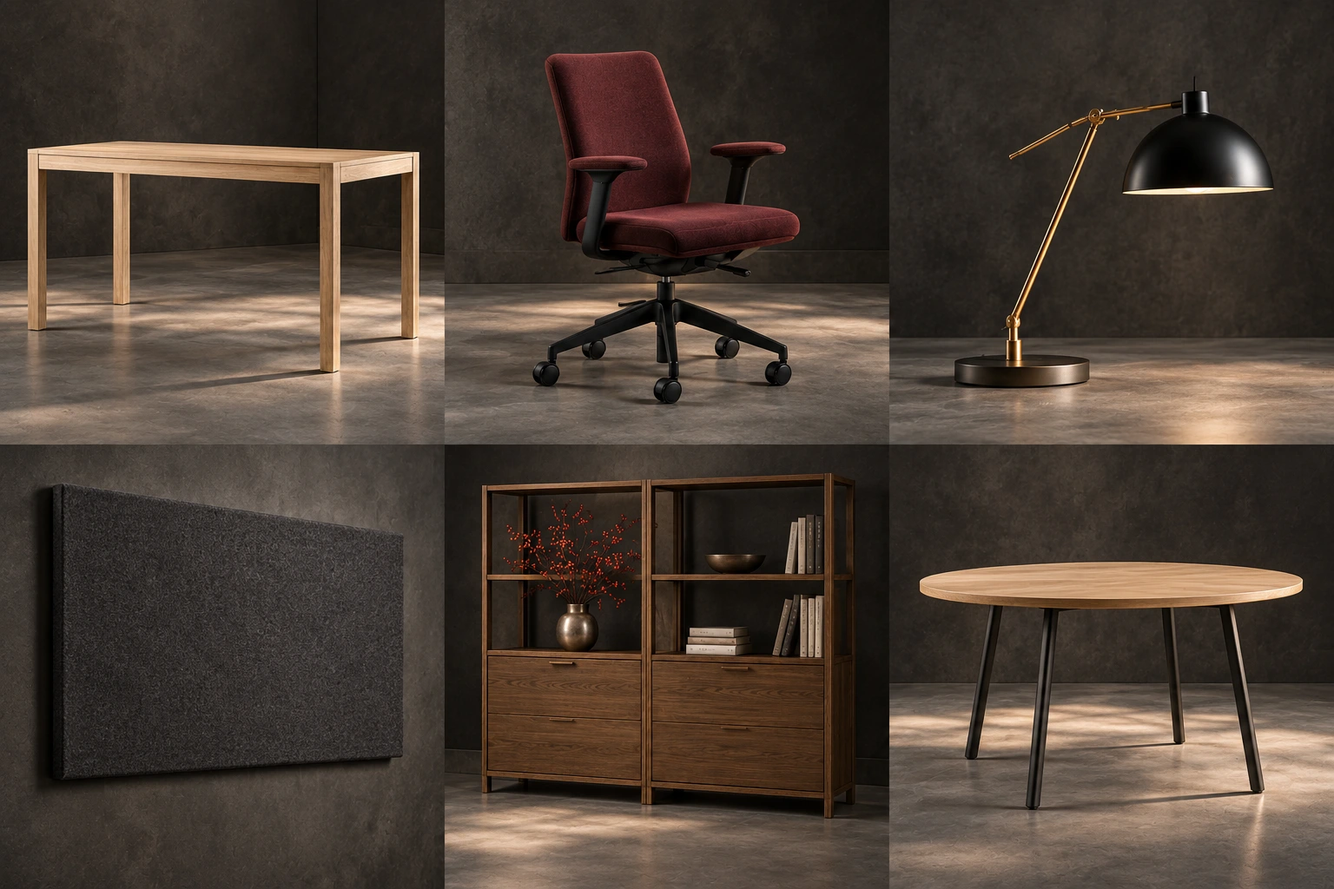
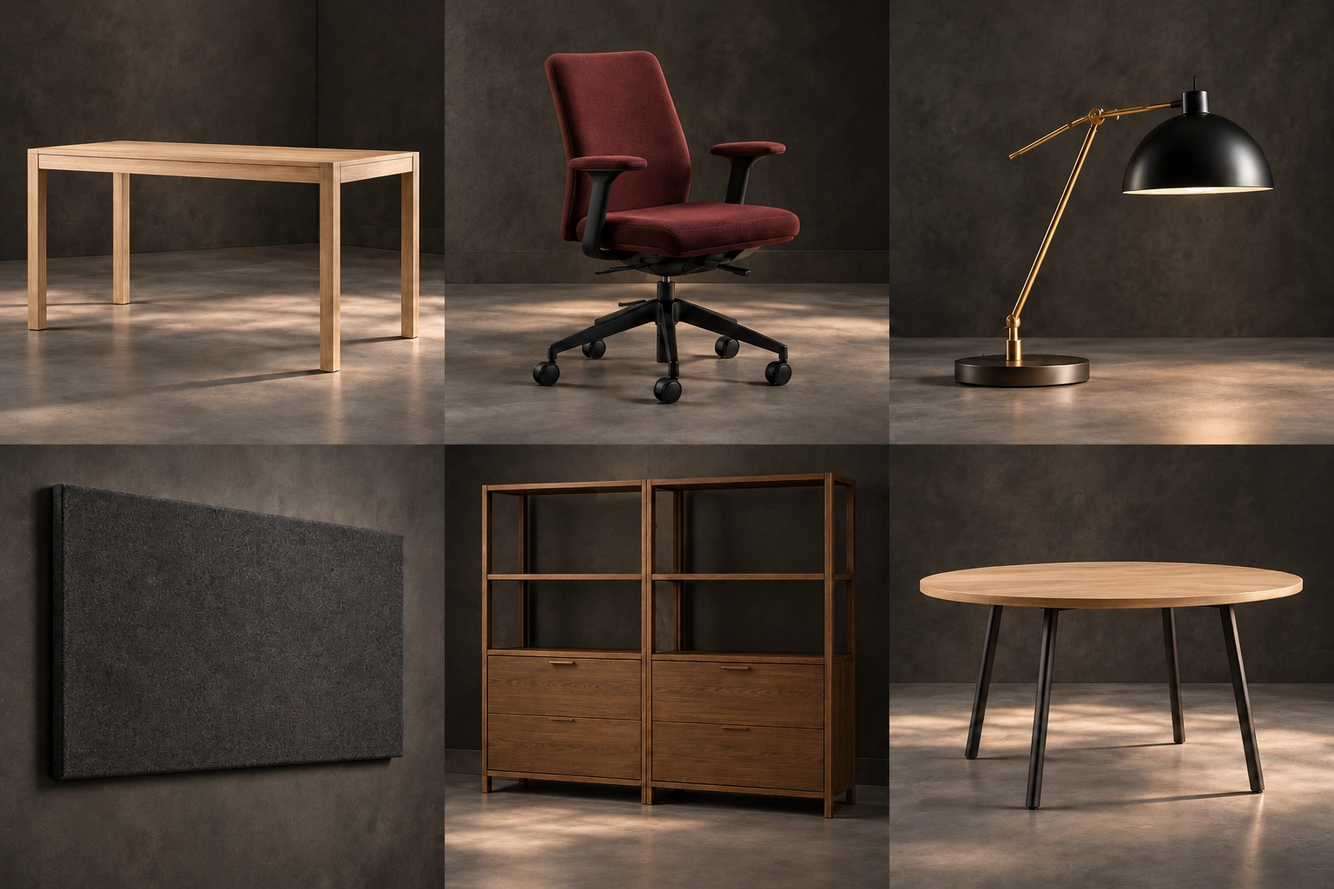
Fix product photography and remove duplicate gallery views

diff --git a/src/App.tsx b/src/App.tsx
@@ -4,18 +4,22 @@ import {Search,ShoppingCart,UserRound,Building2,Bookmark,Plus,Minus,X,Download,S
 import {api,post,money,ErrorBox} from './ui';
 import data from '../backend/catalog.json';
 type Product={id:string;name:string;price:number;stock:number;category:string;details:string;unit:string};type Item=Product&{quantity:number;total:number};type Quote={items:Item[];total:number;currency:string};
-const empty:Quote={items:[],total:0,currency:'RUB'};const photoPosition:Record<string,string>={'desk-oak':'0% 0%','chair-form':'50% 0%','lamp-line':'100% 0%','acoustic-leaf':'0% 100%','shelf-arch':'50% 100%','table-round':'100% 100%'};
-function ProductImage({product,className=''}:{product:Product;className?:string}){return <div role="img" aria-label={product.name} className={'product-image '+className} style={{backgroundImage:"url(./assets/products.webp)",backgroundPosition:photoPosition[product.id]}}/>}
+const empty:Quote={items:[],total:0,currency:'RUB'};
+const productPhoto:Record<string,[number,number]>={'desk-oak':[0,0],'chair-form':[1,0],'lamp-line':[2,0],'acoustic-leaf':[0,1],'shelf-arch':[1,1],'table-round':[2,1]};
+function ProductImage({product,className=''}:{product:Product;className?:string}){
+ const [column,row]=productPhoto[product.id];
+ return <div className={'product-image '+className} data-product={product.id}><svg viewBox="0 0 512 512" role="img" aria-label={product.name}><svg width="512" height="512" overflow="hidden"><image href="./assets/products.webp" width="1536" height="1024" x={-column*512} y={-row*512}/></svg></svg></div>
+}
 export default function App(){
- const [catalog,setCatalog]=useState<Product[]>(data),[selected,setSelected]=useState(data[0].id),[quantity,setQuantity]=useState(1),[gallery,setGallery]=useState(0),[query,setQuery]=useState(''),[overlay,setOverlay]=useState(''),[favorite,setFavorite]=useState<string[]>([]),[quote,setQuote]=useState<Quote>(empty),[online,setOnline]=useState(false),[enabled,setEnabled]=useState(false),[busy,setBusy]=useState(false),[quoteBusy,setQuoteBusy]=useState(false),[error,setError]=useState(''),[input,setInput]=useState('Нужны два стола Line и два кресла Form для офиса.'),[messages,setMessages]=useState([{role:'assistant',text:'Что нужно подобрать для вашего офиса?'}]);
+ const [catalog,setCatalog]=useState<Product[]>(data),[selected,setSelected]=useState(data[0].id),[quantity,setQuantity]=useState(1),[query,setQuery]=useState(''),[overlay,setOverlay]=useState(''),[favorite,setFavorite]=useState<string[]>([]),[quote,setQuote]=useState<Quote>(empty),[online,setOnline]=useState(false),[enabled,setEnabled]=useState(false),[busy,setBusy]=useState(false),[quoteBusy,setQuoteBusy]=useState(false),[error,setError]=useState(''),[input,setInput]=useState('Нужны два стола Line и два кресла Form для офиса.'),[messages,setMessages]=useState([{role:'assistant',text:'Что нужно подобрать для вашего офиса?'}]);
  useEffect(()=>{api<Product[]>('/api/catalog').then(setCatalog).catch(()=>{});api('/api/health').then(h=>{setOnline(true);setEnabled(h.agent_enabled)}).catch(()=>{})},[]);
  const product=catalog.find(p=>p.id===selected)||catalog[0];const products=catalog.filter(p=>(p.name+' '+p.category+' '+p.details).toLowerCase().includes(query.toLowerCase()));
- const choose=(p:Product)=>{setSelected(p.id);setQuantity(1);setGallery(0);setOverlay('');setQuery('')};
+ const choose=(p:Product)=>{setSelected(p.id);setQuantity(1);setOverlay('');setQuery('')};
  const recalc=async(items:{id:string;quantity:number}[])=>{setError('');setQuoteBusy(true);try{if(online)setQuote(await post('/api/quote',items));else{const rows=items.map(i=>{const p=catalog.find(p=>p.id===i.id);if(!p||i.quantity<1||i.quantity>p.stock)throw Error('Проверьте количество и наличие товара');return {...p,quantity:i.quantity,total:p.price*i.quantity}});setQuote({items:rows,total:rows.reduce((s,p)=>s+p.total,0),currency:'RUB'})}}catch(e){setError((e as Error).message)}finally{setQuoteBusy(false)}};
  const add=(p:Product,count=1)=>{const items=quote.items.map(i=>({id:i.id,quantity:i.quantity}));const current=items.find(i=>i.id===p.id);if(current)current.quantity+=count;else items.push({id:p.id,quantity:count});recalc(items)};
  const change=(id:string,qty:number)=>recalc(quote.items.filter(i=>i.id!==id||qty>0).map(i=>({id:i.id,quantity:i.id===id?qty:i.quantity})));
  const download=()=>{const url=URL.createObjectURL(new Blob([JSON.stringify(quote,null,2)],{type:'application/json'}));const a=document.createElement('a');a.href=url;a.download='supply-quote.json';a.click();URL.revokeObjectURL(url)};
  const ask=async()=>{if(!input.trim()||busy)return;const request=input;setInput('');setBusy(true);setError('');setMessages(m=>[...m,{role:'user',text:request}]);try{const result=await post('/api/ask',{message:request});setMessages(m=>[...m,{role:'assistant',text:result.message}]);setQuote(result.quote)}catch(e){setError((e as Error).message);setInput(request)}finally{setBusy(false)}};
  useDialog(Boolean(overlay),()=>setOverlay(''));
- return <div className="supply-app"><header className="store-header"><a className="logo" href="../">supply</a><nav><button onClick={()=>setOverlay('Каталог')}>Каталог</button><button onClick={()=>setOverlay('Подбор')}>Подбор</button><button onClick={()=>setOverlay('Заказ')}>Предложение</button><button onClick={()=>setOverlay('О проекте')}>О проекте</button></nav><form className="search" role="search" onSubmit={e=>{e.preventDefault();setOverlay('Каталог')}}><button type="submit" aria-label="Искать"><Search size={15}/></button><input value={query} placeholder="Поиск по каталогу" aria-label="Поиск по каталогу" onChange={e=>setQuery(e.target.value)}/></form><button className="company" onClick={()=>setOverlay('Заказ')}><Building2 size={17}/>Компания</button><button className="plain" aria-label="О проекте" onClick={()=>setOverlay('О проекте')}><UserRound size={19}/></button><button className="cart-button plain" aria-label={`Заказ: ${quote.items.reduce((s,i)=>s+i.quantity,0)} товаров`} onClick={()=>setOverlay('Заказ')}><ShoppingCart size={21}/>{quote.items.length>0&&<span>{quote.items.reduce((s,i)=>s+i.quantity,0)}</span>}</button></header><ErrorBox error={error}/><main><div className="product-layout"><aside className="gallery-thumbs">{[0,1,2,3].map(n=><button key={n} className={n===gallery?'active':''} onClick={()=>setGallery(n)} aria-label={'Ракурс '+(n+1)}>{n===0||n===3?<img src="./assets/study.webp" alt=""/>:<ProductImage product={product} className={n===2?'detail':''}/>}</button>)}</aside><div className={'hero-picture '+(gallery===2?'detail':'')}>{product.id==='desk-oak'&&gallery===0?<img src="./assets/study.webp" alt="Дубовый стол Line и бордовое кресло в кабинете"/>:gallery===3?<img className="room-detail" src="./assets/study.webp" alt="Деталь кабинета"/>:<ProductImage product={product}/>}</div><section className="product-info"><p className="collection">{product.category}</p><h1>{product.name}</h1><p className="price">{money(product.price)}</p><div className="in-stock"><i/>В наличии</div><div className="option-group"><h2>{product.id==='desk-oak'?'Размер столешницы':'Модель'}</h2>{product.id==='desk-oak'?<div className="sizes"><button disabled title="Недоступно в каталоге">120 × 70</button><button className="selected">140 × 70</button><button disabled title="Недоступно в каталоге">160 × 80</button></div>:<span className="model-name">{product.name}</span>}</div><div className="option-group"><h2>Цвет</h2><div className="color-row"><span className={'swatch '+(product.id==='chair-form'?'burgundy':'oak')}/><span>{product.id==='chair-form'?'Бордовый':product.id==='desk-oak'||product.id==='table-round'?'Натуральный дуб':'Как на изображении'}</span></div></div><div className="option-group"><h2>Количество</h2><div className="quantity-row"><div className="quantity"><button aria-label="Уменьшить количество" disabled={quantity<=1} onClick={()=>setQuantity(q=>q-1)}><Minus size={13}/></button><span>{quantity}</span><button aria-label="Увеличить количество" disabled={quantity>=product.stock} onClick={()=>setQuantity(q=>q+1)}><Plus size={13}/></button></div><small>Доступно {product.stock} шт.</small></div></div><div className="purchase"><button className="add-to-order" disabled={quoteBusy} onClick={()=>add(product,quantity)}><Plus size={16}/>В заказ</button><button className={'bookmark '+(favorite.includes(product.id)?'saved':'')} aria-label={favorite.includes(product.id)?'Убрать из избранного':'В избранное'} onClick={()=>setFavorite(f=>f.includes(product.id)?f.filter(id=>id!==product.id):[...f,product.id])}><Bookmark size={19} fill={favorite.includes(product.id)?'currentColor':'none'}/></button></div>{quote.items.some(i=>i.id===product.id)&&<button className="added" onClick={()=>setOverlay('Заказ')}><Check size={13}/>Добавлено в предложение</button>}<button className="ask-product" onClick={()=>{setInput('Подберите комплект к товару '+product.name);setOverlay('Подбор')}}><MessageCircle size={14}/>Помощь с подбором</button></section><aside className="specification"><h2>Характеристики</h2><dl><dt>Материал</dt><dd>{product.id==='desk-oak'||product.id==='table-round'?'Дубовый шпон':product.id==='chair-form'?'Ткань, металлическое основание':product.id==='lamp-line'?'Металл':'Смешанные материалы'}</dd><dt>Описание</dt><dd>{product.details}</dd><dt>Артикул</dt><dd>{product.id}</dd></dl><div className="delivery"><h2>Доставка</h2><p>Способ и сроки согласуются при оформлении предложения.</p><p>Цены и наличие демонстрационные.</p></div></aside></div><section className="related"><h2>С этим товаром покупают</h2><div className="related-grid">{catalog.filter(p=>p.id!==product.id).slice(0,4).map(p=><button className="related-card" key={p.id} onClick={()=>choose(p)}><ProductImage product={p}/><span><strong>{p.name}</strong><small>{money(p.price)}</small></span></button>)}</div></section></main><footer><span>Мебель для рабочего пространства</span><a href="https://github.com/famelikolbut5/atelier-b2b" target="_blank" rel="noreferrer">Исходный код</a></footer>{overlay&&<div className="drawer-backdrop" onClick={()=>setOverlay('')}><section className={'drawer '+(overlay==='Каталог'?'catalog-drawer':'')} role="dialog" aria-modal="true" aria-label={overlay} onClick={e=>e.stopPropagation()}><header><h2>{overlay}</h2><button className="plain" aria-label="Закрыть" onClick={()=>setOverlay('')}><X size={20}/></button></header><ErrorBox error={error}/>{overlay==='Каталог'?<><label className="drawer-search"><Search size={17}/><input value={query} placeholder="Название или категория" aria-label="Найти товар" onChange={e=>setQuery(e.target.value)}/></label><div className="catalog-grid">{products.map(p=><button key={p.id} className="catalog-card" onClick={()=>choose(p)}><ProductImage product={p}/><strong>{p.name}</strong><span>{money(p.price)}</span></button>)}</div>{!products.length&&<p className="empty">По вашему запросу товаров нет.</p>}</>:overlay==='Заказ'?<>{quote.items.length?quote.items.map(i=><div className="cart-item" key={i.id}><ProductImage product={i}/><div><h3>{i.name}</h3><p>{money(i.price)}</p><div className="quantity"><button aria-label={'Уменьшить '+i.name} disabled={quoteBusy} onClick={()=>change(i.id,i.quantity-1)}><Minus size={12}/></button><span>{i.quantity}</span><button aria-label={'Увеличить '+i.name} disabled={quoteBusy||i.quantity>=i.stock} onClick={()=>change(i.id,i.quantity+1)}><Plus size={12}/></button></div></div><button className="plain" aria-label={'Убрать '+i.name} disabled={quoteBusy} onClick={()=>change(i.id,0)}><Trash2 size={15}/></button></div>):<p className="empty">Добавьте товары из каталога.</p>}<div className="cart-total"><span>Итого</span><strong>{money(quote.total)}</strong></div><button className="add-to-order" disabled={!quote.items.length||quoteBusy} onClick={download}><Download size={16}/>Скачать предложение</button></>:overlay==='Подбор'?<><div className="chat" aria-live="polite">{messages.map((m,i)=><div key={i} className={'bubble '+m.role}>{m.text}</div>)}{busy&&<p>Проверяем каталог…</p>}</div>{enabled?<div className="composer"><textarea aria-label="Запрос консультанту" value={input} onChange={e=>setInput(e.target.value)}/><button className="add-to-order" onClick={ask} disabled={busy}><Send size={16}/>Отправить</button></div>:<p className="empty">Консультант сейчас недоступен. Выберите товары в каталоге и соберите предложение самостоятельно.</p>}<button className="text-link" onClick={()=>setOverlay('Заказ')}>Открыть предложение</button></>:<><p>Supply - самостоятельная демоверсия каталога, подбора и расчёта заказа.</p><p>Каталог и изображения демонстрационные. Сервер проверяет товары, количество и остатки и рассчитывает стоимость.</p><p>На локальном сервере подбор выполняет Codex CLI. Интеграция с 1С, оплата и реальные продажи не подключены.</p><a className="text-link" href="https://github.com/famelikolbut5/atelier-b2b" target="_blank" rel="noreferrer">Код и инструкция запуска</a></>}</section></div>}</div>
+ return <div className="supply-app"><header className="store-header"><a className="logo" href="../">supply</a><nav><button onClick={()=>setOverlay('Каталог')}>Каталог</button><button onClick={()=>setOverlay('Подбор')}>Подбор</button><button onClick={()=>setOverlay('Заказ')}>Предложение</button><button onClick={()=>setOverlay('О проекте')}>О проекте</button></nav><form className="search" role="search" onSubmit={e=>{e.preventDefault();setOverlay('Каталог')}}><button type="submit" aria-label="Искать"><Search size={15}/></button><input value={query} placeholder="Поиск по каталогу" aria-label="Поиск по каталогу" onChange={e=>setQuery(e.target.value)}/></form><button className="company" onClick={()=>setOverlay('Заказ')}><Building2 size={17}/>Компания</button><button className="plain" aria-label="О проекте" onClick={()=>setOverlay('О проекте')}><UserRound size={19}/></button><button className="cart-button plain" aria-label={`Заказ: ${quote.items.reduce((s,i)=>s+i.quantity,0)} товаров`} onClick={()=>setOverlay('Заказ')}><ShoppingCart size={21}/>{quote.items.length>0&&<span>{quote.items.reduce((s,i)=>s+i.quantity,0)}</span>}</button></header><ErrorBox error={error}/><main><div className="product-layout"><div className="hero-picture"><ProductImage product={product}/></div><section className="product-info"><p className="collection">{product.category}</p><h1>{product.name}</h1><p className="price">{money(product.price)}</p><div className="in-stock"><i/>В наличии</div><div className="option-group"><h2>{product.id==='desk-oak'?'Размер столешницы':'Модель'}</h2>{product.id==='desk-oak'?<div className="sizes"><button disabled title="Недоступно в каталоге">120 × 70</button><button className="selected">140 × 70</button><button disabled title="Недоступно в каталоге">160 × 80</button></div>:<span className="model-name">{product.name}</span>}</div><div className="option-group"><h2>Цвет</h2><div className="color-row"><span className={'swatch '+(product.id==='chair-form'?'burgundy':'oak')}/><span>{product.id==='chair-form'?'Бордовый':product.id==='desk-oak'||product.id==='table-round'?'Натуральный дуб':'Как на изображении'}</span></div></div><div className="option-group"><h2>Количество</h2><div className="quantity-row"><div className="quantity"><button aria-label="Уменьшить количество" disabled={quantity<=1} onClick={()=>setQuantity(q=>q-1)}><Minus size={13}/></button><span>{quantity}</span><button aria-label="Увеличить количество" disabled={quantity>=product.stock} onClick={()=>setQuantity(q=>q+1)}><Plus size={13}/></button></div><small>Доступно {product.stock} шт.</small></div></div><div className="purchase"><button className="add-to-order" disabled={quoteBusy} onClick={()=>add(product,quantity)}><Plus size={16}/>В заказ</button><button className={'bookmark '+(favorite.includes(product.id)?'saved':'')} aria-label={favorite.includes(product.id)?'Убрать из избранного':'В избранное'} onClick={()=>setFavorite(f=>f.includes(product.id)?f.filter(id=>id!==product.id):[...f,product.id])}><Bookmark size={19} fill={favorite.includes(product.id)?'currentColor':'none'}/></button></div>{quote.items.some(i=>i.id===product.id)&&<button className="added" onClick={()=>setOverlay('Заказ')}><Check size={13}/>Добавлено в предложение</button>}<button className="ask-product" onClick={()=>{setInput('Подберите комплект к товару '+product.name);setOverlay('Подбор')}}><MessageCircle size={14}/>Помощь с подбором</button></section><aside className="specification"><h2>Характеристики</h2><dl><dt>Материал</dt><dd>{product.id==='desk-oak'||product.id==='table-round'?'Дубовый шпон':product.id==='chair-form'?'Ткань, металлическое основание':product.id==='lamp-line'?'Металл':'Смешанные материалы'}</dd><dt>Описание</dt><dd>{product.details}</dd><dt>Артикул</dt><dd>{product.id}</dd></dl><div className="delivery"><h2>Доставка</h2><p>Способ и сроки согласуются при оформлении предложения.</p><p>Цены и наличие демонстрационные.</p></div></aside></div><section className="related"><h2>С этим товаром покупают</h2><div className="related-grid">{catalog.filter(p=>p.id!==product.id).slice(0,4).map(p=><button className="related-card" key={p.id} onClick={()=>choose(p)}><ProductImage product={p}/><span><strong>{p.name}</strong><small>{money(p.price)}</small></span></button>)}</div></section></main><footer><span>Мебель для рабочего пространства</span><a href="https://github.com/famelikolbut5/supply" target="_blank" rel="noreferrer">Исходный код</a></footer>{overlay&&<div className="drawer-backdrop" onClick={()=>setOverlay('')}><section className={'drawer '+(overlay==='Каталог'?'catalog-drawer':'')} role="dialog" aria-modal="true" aria-label={overlay} onClick={e=>e.stopPropagation()}><header><h2>{overlay}</h2><button className="plain" aria-label="Закрыть" onClick={()=>setOverlay('')}><X size={20}/></button></header><ErrorBox error={error}/>{overlay==='Каталог'?<><label className="drawer-search"><Search size={17}/><input value={query} placeholder="Название или категория" aria-label="Найти товар" onChange={e=>setQuery(e.target.value)}/></label><div className="catalog-grid">{products.map(p=><button key={p.id} className="catalog-card" onClick={()=>choose(p)}><ProductImage product={p}/><strong>{p.name}</strong><span>{money(p.price)}</span></button>)}</div>{!products.length&&<p className="empty">По вашему запросу товаров нет.</p>}</>:overlay==='Заказ'?<>{quote.items.length?quote.items.map(i=><div className="cart-item" key={i.id}><ProductImage product={i}/><div><h3>{i.name}</h3><p>{money(i.price)}</p><div className="quantity"><button aria-label={'Уменьшить '+i.name} disabled={quoteBusy} onClick={()=>change(i.id,i.quantity-1)}><Minus size={12}/></button><span>{i.quantity}</span><button aria-label={'Увеличить '+i.name} disabled={quoteBusy||i.quantity>=i.stock} onClick={()=>change(i.id,i.quantity+1)}><Plus size={12}/></button></div></div><button className="plain" aria-label={'Убрать '+i.name} disabled={quoteBusy} onClick={()=>change(i.id,0)}><Trash2 size={15}/></button></div>):<p className="empty">Добавьте товары из каталога.</p>}<div className="cart-total"><span>Итого</span><strong>{money(quote.total)}</strong></div><button className="add-to-order" disabled={!quote.items.length||quoteBusy} onClick={download}><Download size={16}/>Скачать предложение</button></>:overlay==='Подбор'?<><div className="chat" aria-live="polite">{messages.map((m,i)=><div key={i} className={'bubble '+m.role}>{m.text}</div>)}{busy&&<p>Проверяем каталог…</p>}</div>{enabled?<div className="composer"><textarea aria-label="Запрос консультанту" value={input} onChange={e=>setInput(e.target.value)}/><button className="add-to-order" onClick={ask} disabled={busy}><Send size={16}/>Отправить</button></div>:<p className="empty">Консультант сейчас недоступен. Выберите товары в каталоге и соберите предложение самостоятельно.</p>}<button className="text-link" onClick={()=>setOverlay('Заказ')}>Открыть предложение</button></>:<><p>Supply - самостоятельная демоверсия каталога, подбора и расчёта заказа.</p><p>Каталог и изображения демонстрационные. Сервер проверяет товары, количество и остатки и рассчитывает стоимость.</p><p>На локальном сервере подбор выполняет Codex CLI. Интеграция с 1С, оплата и реальные продажи не подключены.</p><a className="text-link" href="https://github.com/famelikolbut5/supply" target="_blank" rel="noreferrer">Код и инструкция запуска</a></>}</section></div>}</div>
 }

diff --git a/src/styles.css b/src/styles.css
@@ -1,6 +1,6 @@
 @import url('https://fonts.googleapis.com/css2?family=Golos+Text:wght@400;500;600;700&display=swap');
-:root{font-family:'Golos Text',Arial,sans-serif;color:#e7e4e1;background:#10100f;font-synthesis:none;--line:#2b2b28;--muted:#999993;--wine:#773c3d}*{box-sizing:border-box}body{margin:0}button,input,textarea{font:inherit}button{cursor:pointer}button:disabled{opacity:.35;cursor:default}button:focus-visible,a:focus-visible,input:focus-visible,textarea:focus-visible{outline:2px solid #c48478;outline-offset:4px}a{text-decoration:none;color:inherit}button{border:0;color:inherit;background:transparent}h1,h2,h3,p{margin:0}.supply-app{max-width:1800px;margin:auto}.store-header{height:77px;display:flex;align-items:center;gap:26px;padding:0 29px;border-bottom:1px solid var(--line)}.logo{font-size:30px;font-weight:700;letter-spacing:-1.7px;margin-right:20px}.store-header nav{display:flex;gap:25px}.store-header nav button{font-size:12px;color:#bbb9b3;padding:8px 0;white-space:nowrap}.search{display:flex;align-items:center;gap:9px;width:min(310px,27vw);background:#222220;border:1px solid #343431;border-radius:5px;padding:9px 12px;margin:auto}.search input{min-width:0;width:100%;border:0;background:transparent;color:#ddd;font-size:11px;outline:0}.search input::placeholder{color:#878781}.company{display:flex;align-items:center;gap:7px;font:13px Georgia,serif;white-space:nowrap}.plain{display:grid;place-items:center;padding:7px}.cart-button{position:relative}.cart-button span{position:absolute;right:-4px;top:-3px;font-size:9px;border-radius:50%;height:16px;width:16px;background:#974f4e;display:grid;place-items:center}.product-layout{display:grid;grid-template-columns:76px minmax(0,1.55fr) minmax(240px,.68fr) minmax(175px,.42fr);gap:25px;padding:0 28px;min-height:600px}.gallery-thumbs{display:flex;flex-direction:column;gap:11px;padding-top:18px}.gallery-thumbs button{height:76px;width:76px;border:1px solid transparent;border-radius:3px;overflow:hidden;padding:0;opacity:.72}.gallery-thumbs button.active{border-color:#cbc5b9;opacity:1}.gallery-thumbs img{width:100%;height:100%;object-fit:cover}.product-image{background-size:300% 200%;background-repeat:no-repeat;background-color:#292622;width:100%;height:100%}.hero-picture{height:min(70vh,720px);min-height:570px;margin-left:-12px;overflow:hidden;background:#24201c}.hero-picture>img{width:100%;height:100%;object-fit:cover;object-position:45% center}.hero-picture .room-detail{object-position:right;transform:scale(1.2)}.hero-picture.detail .product-image{background-size:360% 240%}.product-info{padding:37px 0 30px}.collection{font-size:11px;color:#b7b1a7;letter-spacing:1.5px;margin-bottom:17px}.product-info h1{font:36px Georgia,serif;line-height:1.15;color:#f3efea;letter-spacing:-.7px}.price{font-size:27px;font-weight:550;letter-spacing:-.6px;margin-top:17px}.in-stock{font-size:11px;display:flex;gap:6px;align-items:center;color:#bfc3b9;margin-top:15px}.in-stock i{background:#73b68e;width:7px;height:7px;border-radius:50%}.option-group{margin-top:32px}.option-group h2{font-size:11px;font-weight:400;margin-bottom:12px;color:#d7d5ce}.sizes{display:flex;gap:7px}.sizes button{font-size:10px;border:1px solid #4a4943;border-radius:4px;padding:9px 8px;white-space:nowrap}.sizes button.selected{border-color:#bbb5a9;background:#292825}.color-row{display:flex;align-items:center;gap:10px;font-size:11px;color:#a9aaa2}.swatch{height:26px;width:26px;border-radius:50%;border:1px solid #d4c7ae}.swatch.oak{background:#b6a082}.swatch.burgundy{background:#643137;border-color:#ad7d73}.quantity-row{display:flex;align-items:center;gap:12px}.quantity{display:flex;align-items:center;justify-content:center;gap:14px;border:1px solid #3c3c36;border-radius:4px;height:32px;width:max-content;padding:0 8px;font-size:12px}.quantity button{padding:4px;display:grid;place-items:center}.quantity-row small{font-size:10px;color:#97988e}.purchase{display:flex;gap:12px;margin-top:28px}.add-to-order{display:flex;align-items:center;justify-content:center;gap:10px;padding:15px 25px;background:linear-gradient(100deg,#824244,#693638);border:1px solid #844748;border-radius:4px;font-size:12px;color:#fff;width:100%}.add-to-order:hover{background:#915355}.bookmark{width:45px;flex-shrink:0;border:1px solid #494941;border-radius:4px;display:grid;place-items:center}.bookmark.saved{color:#d0a397;border-color:#be9187}.added{display:flex;align-items:center;gap:6px;font-size:10px;color:#9cc5aa;padding:10px 0 0}.ask-product{display:flex;align-items:center;gap:7px;font-size:10px;color:#a39a90;padding:16px 0}.specification{padding:81px 0 20px 7px}.specification h2{font-size:12px;font-weight:400;color:#dedbd4}.specification dl{margin:20px 0 0}.specification dt{font-size:10px;color:#92938a;margin-top:22px}.specification dd{margin:6px 0 0;font-size:11px;line-height:1.6;color:#c5c5ba}.delivery{border-top:1px solid #292a24;padding-top:25px;margin-top:32px}.delivery p{font-size:11px;line-height:1.7;color:#a1a297;margin-top:15px}.related{padding:24px 28px 20px}.related h2{font-size:12px;font-weight:450;margin-bottom:15px}.related-grid{display:grid;grid-template-columns:repeat(4,minmax(0,1fr));gap:16px}.related-card{display:grid;grid-template-columns:90px 1fr;gap:14px;text-align:left;background:linear-gradient(110deg,#282823,#1f1f1c);height:110px;padding:0;overflow:hidden;border-radius:4px}.related-card .product-image{height:110px;width:90px}.related-card>span{align-self:center;padding-right:10px}.related-card strong{display:block;font:14px Georgia,serif;color:#ddd9cf;line-height:1.5}.related-card small{display:block;font-size:13px;margin-top:10px;color:#e2e0d7}.related-card:hover{background:#38362e}footer{padding:20px 28px;border-top:1px solid #262621;display:flex;justify-content:space-between;font-size:10px;color:#686a62}.error{margin:15px 28px;background:#3b2220;color:#efb5a9;padding:12px 16px;font-size:12px;border:1px solid #5f302b;border-radius:4px}.drawer-backdrop{position:fixed;inset:0;background:#0009;backdrop-filter:blur(4px);z-index:20;display:flex;justify-content:flex-end}.drawer{width:min(490px,100%);height:100%;overflow:auto;background:#171713;border-left:1px solid #3d3b31;padding:28px;box-shadow:-20px 0 80px #0005}.drawer header{display:flex;justify-content:space-between;align-items:center;margin-bottom:28px}.drawer header h2{font:27px Georgia,serif}.drawer p{font-size:13px;line-height:1.9;color:#a5a699;margin:15px 0}.drawer .error{margin:15px 0}.catalog-drawer{width:min(850px,100%)}.drawer-search{display:flex;align-items:center;gap:12px;padding:12px 15px;border:1px solid #454239;border-radius:4px;margin-bottom:25px}.drawer-search input{width:100%;color:#eee;border:0;background:transparent;outline:0;font-size:12px}.catalog-grid{display:grid;grid-template-columns:repeat(3,minmax(0,1fr));gap:20px}.catalog-card{text-align:left;padding:0}.catalog-card .product-image{height:210px;border-radius:3px}.catalog-card strong{display:block;font:17px Georgia,serif;margin-top:13px}.catalog-card span{display:block;color:#bfbfaf;font-size:12px;margin-top:9px}.cart-item{display:grid;grid-template-columns:100px 1fr 28px;gap:18px;padding:20px 0;border-bottom:1px solid #343227}.cart-item .product-image{height:110px;border-radius:3px}.cart-item h3{font-size:14px;font-weight:450}.cart-item p{margin:8px 0 12px;font-size:12px}.cart-item .plain{align-self:start;color:#8e8f83}.cart-total{display:flex;justify-content:space-between;margin:30px 0;font-size:20px}.cart-total strong{font-weight:550}.empty{padding:25px 0}.chat{min-height:260px;padding:10px 0;max-height:55vh;overflow:auto}.bubble{font-size:12px;line-height:1.8;background:#27271f;padding:15px 17px;border-radius:8px;margin-bottom:17px;white-space:pre-wrap}.bubble.user{background:#603737;margin-left:30px}.composer textarea{width:100%;height:100px;resize:vertical;padding:14px;border:1px solid #454137;border-radius:5px;background:#202019;color:#e7e5d9;font-size:12px;margin-bottom:12px}.text-link{font-size:12px;display:block;color:#c3a28e;margin-top:24px}.model-name{font-size:12px;color:#bbbdb1}@media(min-width:1550px){.product-layout{grid-template-columns:85px minmax(0,1.65fr) minmax(285px,.66fr) minmax(210px,.4fr);gap:32px}.hero-picture{min-height:650px}.product-info{padding-top:45px}.specification{padding-top:94px}.option-group{margin-top:37px}.related-card{height:125px}.related-card .product-image{height:125px;width:100px}.related-card{grid-template-columns:100px 1fr}}@media(max-width:1150px){.store-header{gap:18px;padding:0 20px}.logo{margin-right:4px}.store-header nav{gap:14px}.company{display:none}.product-layout{grid-template-columns:60px minmax(0,1.3fr) minmax(230px,.8fr);gap:20px;padding:0 20px}.gallery-thumbs button{height:60px;width:60px}.hero-picture{min-height:540px}.specification{grid-column:2/4;padding:20px 0;display:grid;grid-template-columns:1fr 1fr;gap:20px;border-top:1px solid var(--line)}.specification h2{grid-column:1/3}.specification dl{margin-top:0;display:grid;grid-template-columns:1fr 2fr;gap:10px}.specification dt{margin-top:0}.specification dd{margin-top:0}.delivery{border-top:0;margin:0;padding:0}.delivery h2{font-size:12px}.related{padding:20px}.related-grid{gap:10px}.related-card{grid-template-columns:75px 1fr;gap:9px}.related-card .product-image{width:75px}.related-card strong{font-size:12px}.related-card small{font-size:11px}.store-header nav button{font-size:11px}}@media(max-width:760px){.store-header{height:auto;min-height:65px;padding:12px 16px;gap:16px;flex-wrap:wrap}.logo{font-size:27px;margin-right:auto}.store-header nav{display:none}.search{order:5;width:100%;margin:0}.store-header>.plain{padding:4px}.product-layout{display:flex;flex-direction:column;padding:0 16px;gap:16px}.gallery-thumbs{order:2;flex-direction:row;padding:0}.gallery-thumbs button{height:55px;width:55px}.hero-picture{order:1;height:440px;min-height:0;margin:16px -16px 0;width:calc(100% + 32px)}.product-info{order:3;padding:10px 0 0}.product-info h1{font-size:33px}.collection{margin-bottom:12px}.price{font-size:26px}.option-group{margin-top:23px}.purchase{margin-top:24px}.specification{order:4;display:block;padding:20px 0}.specification dl{display:block;margin-top:10px}.specification dt{margin-top:17px}.specification dd{margin-top:7px}.delivery{margin-top:24px;border-top:1px solid var(--line);padding-top:20px}.related{padding:20px 16px}.related-grid{grid-template-columns:1fr 1fr;gap:12px}.related-card{height:100px;grid-template-columns:75px 1fr}.related-card .product-image{height:100px}.catalog-grid{grid-template-columns:1fr 1fr}.catalog-card .product-image{height:180px}.drawer{padding:22px 18px}.error{margin:12px 16px}footer{padding:18px 16px;font-size:9px}}@media(prefers-reduced-motion:reduce){*{animation:none!important;transition:none!important}}
+:root{font-family:'Golos Text',Arial,sans-serif;color:#e7e4e1;background:#10100f;font-synthesis:none;--line:#2b2b28;--muted:#999993;--wine:#773c3d}*{box-sizing:border-box}body{margin:0}button,input,textarea{font:inherit}button{cursor:pointer}button:disabled{opacity:.35;cursor:default}button:focus-visible,a:focus-visible,input:focus-visible,textarea:focus-visible{outline:2px solid #c48478;outline-offset:4px}a{text-decoration:none;color:inherit}button{border:0;color:inherit;background:transparent}h1,h2,h3,p{margin:0}.supply-app{max-width:1800px;margin:auto}.store-header{height:77px;display:flex;align-items:center;gap:26px;padding:0 29px;border-bottom:1px solid var(--line)}.logo{font-size:30px;font-weight:700;letter-spacing:-1.7px;margin-right:20px}.store-header nav{display:flex;gap:25px}.store-header nav button{font-size:12px;color:#bbb9b3;padding:8px 0;white-space:nowrap}.search{display:flex;align-items:center;gap:9px;width:min(310px,27vw);background:#222220;border:1px solid #343431;border-radius:5px;padding:9px 12px;margin:auto}.search input{min-width:0;width:100%;border:0;background:transparent;color:#ddd;font-size:11px;outline:0}.search input::placeholder{color:#878781}.company{display:flex;align-items:center;gap:7px;font:13px Georgia,serif;white-space:nowrap}.plain{display:grid;place-items:center;padding:7px}.cart-button{position:relative}.cart-button span{position:absolute;right:-4px;top:-3px;font-size:9px;border-radius:50%;height:16px;width:16px;background:#974f4e;display:grid;place-items:center}.product-layout{display:grid;grid-template-columns:minmax(0,1.55fr) minmax(240px,.68fr) minmax(175px,.42fr);gap:25px;padding:0 28px;min-height:600px}.product-image{background:#292622;width:100%;height:100%;display:grid;place-items:center;overflow:hidden}.product-image>svg{display:block;width:100%;height:100%}.hero-picture{height:min(70vh,720px);min-height:570px;margin-left:0;overflow:hidden;background:#24201c}.product-info{padding:37px 0 30px}.collection{font-size:11px;color:#b7b1a7;letter-spacing:1.5px;margin-bottom:17px}.product-info h1{font:36px Georgia,serif;line-height:1.15;color:#f3efea;letter-spacing:-.7px}.price{font-size:27px;font-weight:550;letter-spacing:-.6px;margin-top:17px}.in-stock{font-size:11px;display:flex;gap:6px;align-items:center;color:#bfc3b9;margin-top:15px}.in-stock i{background:#73b68e;width:7px;height:7px;border-radius:50%}.option-group{margin-top:32px}.option-group h2{font-size:11px;font-weight:400;margin-bottom:12px;color:#d7d5ce}.sizes{display:flex;gap:7px}.sizes button{font-size:10px;border:1px solid #4a4943;border-radius:4px;padding:9px 8px;white-space:nowrap}.sizes button.selected{border-color:#bbb5a9;background:#292825}.color-row{display:flex;align-items:center;gap:10px;font-size:11px;color:#a9aaa2}.swatch{height:26px;width:26px;border-radius:50%;border:1px solid #d4c7ae}.swatch.oak{background:#b6a082}.swatch.burgundy{background:#643137;border-color:#ad7d73}.quantity-row{display:flex;align-items:center;gap:12px}.quantity{display:flex;align-items:center;justify-content:center;gap:14px;border:1px solid #3c3c36;border-radius:4px;height:32px;width:max-content;padding:0 8px;font-size:12px}.quantity button{padding:4px;display:grid;place-items:center}.quantity-row small{font-size:10px;color:#97988e}.purchase{display:flex;gap:12px;margin-top:28px}.add-to-order{display:flex;align-items:center;justify-content:center;gap:10px;padding:15px 25px;background:linear-gradient(100deg,#824244,#693638);border:1px solid #844748;border-radius:4px;font-size:12px;color:#fff;width:100%}.add-to-order:hover{background:#915355}.bookmark{width:45px;flex-shrink:0;border:1px solid #494941;border-radius:4px;display:grid;place-items:center}.bookmark.saved{color:#d0a397;border-color:#be9187}.added{display:flex;align-items:center;gap:6px;font-size:10px;color:#9cc5aa;padding:10px 0 0}.ask-product{display:flex;align-items:center;gap:7px;font-size:10px;color:#a39a90;padding:16px 0}.specification{padding:81px 0 20px 7px}.specification h2{font-size:12px;font-weight:400;color:#dedbd4}.specification dl{margin:20px 0 0}.specification dt{font-size:10px;color:#92938a;margin-top:22px}.specification dd{margin:6px 0 0;font-size:11px;line-height:1.6;color:#c5c5ba}.delivery{border-top:1px solid #292a24;padding-top:25px;margin-top:32px}.delivery p{font-size:11px;line-height:1.7;color:#a1a297;margin-top:15px}.related{padding:24px 28px 20px}.related h2{font-size:12px;font-weight:450;margin-bottom:15px}.related-grid{display:grid;grid-template-columns:repeat(4,minmax(0,1fr));gap:16px}.related-card{display:grid;grid-template-columns:90px 1fr;gap:14px;text-align:left;background:linear-gradient(110deg,#282823,#1f1f1c);height:110px;padding:0;overflow:hidden;border-radius:4px}.related-card .product-image{height:110px;width:90px}.related-card>span{align-self:center;padding-right:10px}.related-card strong{display:block;font:14px Georgia,serif;color:#ddd9cf;line-height:1.5}.related-card small{display:block;font-size:13px;margin-top:10px;color:#e2e0d7}.related-card:hover{background:#38362e}footer{padding:20px 28px;border-top:1px solid #262621;display:flex;justify-content:space-between;font-size:10px;color:#686a62}.error{margin:15px 28px;background:#3b2220;color:#efb5a9;padding:12px 16px;font-size:12px;border:1px solid #5f302b;border-radius:4px}.drawer-backdrop{position:fixed;inset:0;background:#0009;backdrop-filter:blur(4px);z-index:20;display:flex;justify-content:flex-end}.drawer{width:min(490px,100%);height:100%;overflow:auto;background:#171713;border-left:1px solid #3d3b31;padding:28px;box-shadow:-20px 0 80px #0005}.drawer header{display:flex;justify-content:space-between;align-items:center;margin-bottom:28px}.drawer header h2{font:27px Georgia,serif}.drawer p{font-size:13px;line-height:1.9;color:#a5a699;margin:15px 0}.drawer .error{margin:15px 0}.catalog-drawer{width:min(850px,100%)}.drawer-search{display:flex;align-items:center;gap:12px;padding:12px 15px;border:1px solid #454239;border-radius:4px;margin-bottom:25px}.drawer-search input{width:100%;color:#eee;border:0;background:transparent;outline:0;font-size:12px}.catalog-grid{display:grid;grid-template-columns:repeat(3,minmax(0,1fr));gap:20px}.catalog-card{text-align:left;padding:0}.catalog-card .product-image{height:210px;border-radius:3px}.catalog-card strong{display:block;font:17px Georgia,serif;margin-top:13px}.catalog-card span{display:block;color:#bfbfaf;font-size:12px;margin-top:9px}.cart-item{display:grid;grid-template-columns:100px 1fr 28px;gap:18px;padding:20px 0;border-bottom:1px solid #343227}.cart-item .product-image{height:110px;border-radius:3px}.cart-item h3{font-size:14px;font-weight:450}.cart-item p{margin:8px 0 12px;font-size:12px}.cart-item .plain{align-self:start;color:#8e8f83}.cart-total{display:flex;justify-content:space-between;margin:30px 0;font-size:20px}.cart-total strong{font-weight:550}.empty{padding:25px 0}.chat{min-height:260px;padding:10px 0;max-height:55vh;overflow:auto}.bubble{font-size:12px;line-height:1.8;background:#27271f;padding:15px 17px;border-radius:8px;margin-bottom:17px;white-space:pre-wrap}.bubble.user{background:#603737;margin-left:30px}.composer textarea{width:100%;height:100px;resize:vertical;padding:14px;border:1px solid #454137;border-radius:5px;background:#202019;color:#e7e5d9;font-size:12px;margin-bottom:12px}.text-link{font-size:12px;display:block;color:#c3a28e;margin-top:24px}.model-name{font-size:12px;color:#bbbdb1}@media(min-width:1550px){.product-layout{grid-template-columns:minmax(0,1.65fr) minmax(285px,.66fr) minmax(210px,.4fr);gap:32px}.hero-picture{min-height:650px}.product-info{padding-top:45px}.specification{padding-top:94px}.option-group{margin-top:37px}.related-card{height:125px}.related-card .product-image{height:125px;width:100px}.related-card{grid-template-columns:100px 1fr}}@media(max-width:1150px){.store-header{gap:18px;padding:0 20px}.logo{margin-right:4px}.store-header nav{gap:14px}.company{display:none}.product-layout{grid-template-columns:minmax(0,1.3fr) minmax(230px,.8fr);gap:20px;padding:0 20px}.hero-picture{min-height:540px}.specification{grid-column:1/3;padding:20px 0;display:grid;grid-template-columns:1fr 1fr;gap:20px;border-top:1px solid var(--line)}.specification h2{grid-column:1/3}.specification dl{margin-top:0;display:grid;grid-template-columns:1fr 2fr;gap:10px}.specification dt{margin-top:0}.specification dd{margin-top:0}.delivery{border-top:0;margin:0;padding:0}.delivery h2{font-size:12px}.related{padding:20px}.related-grid{gap:10px}.related-card{grid-template-columns:75px 1fr;gap:9px}.related-card .product-image{width:75px}.related-card strong{font-size:12px}.related-card small{font-size:11px}.store-header nav button{font-size:11px}}@media(max-width:760px){.store-header{height:auto;min-height:65px;padding:12px 16px;gap:16px;flex-wrap:wrap}.logo{font-size:27px;margin-right:auto}.store-header nav{display:none}.search{order:5;width:100%;margin:0}.store-header>.plain{padding:4px}.product-layout{display:flex;flex-direction:column;padding:0 16px;gap:16px}.hero-picture{order:1;height:440px;min-height:0;margin:16px -16px 0;width:calc(100% + 32px)}.product-info{order:3;padding:10px 0 0}.product-info h1{font-size:33px}.collection{margin-bottom:12px}.price{font-size:26px}.option-group{margin-top:23px}.purchase{margin-top:24px}.specification{order:4;display:block;padding:20px 0}.specification dl{display:block;margin-top:10px}.specification dt{margin-top:17px}.specification dd{margin-top:7px}.delivery{margin-top:24px;border-top:1px solid var(--line);padding-top:20px}.related{padding:20px 16px}.related-grid{grid-template-columns:1fr 1fr;gap:12px}.related-card{height:100px;grid-template-columns:75px 1fr}.related-card .product-image{height:100px}.catalog-grid{grid-template-columns:1fr 1fr}.catalog-card .product-image{height:180px}.drawer{padding:22px 18px}.error{margin:12px 16px}footer{padding:18px 16px;font-size:9px}}@media(prefers-reduced-motion:reduce){*{animation:none!important;transition:none!important}}
 
-.gallery-thumbs .product-image.detail{background-size:390% 260%}
+
 
 .search button{display:grid;place-items:center;padding:0;border:0;background:transparent;color:inherit}

diff --git a/docs/PRODUCT_IMAGES.md b/docs/PRODUCT_IMAGES.md
@@ -1,0 +1,7 @@
+# Изображения каталога
+
+Один снимок на каждый товар. Карточки, каталог и заказ используют одну и ту же таблицу соответствия SKU и изображения. Интерьерные сцены и повторные ракурсы убраны.
+
+Источник: самостоятельные иллюстрации каталога. Финальный файл: `public/assets/products.webp` (1536 × 1024). Каждая ячейка 512 × 512 показывает отдельный товар; SVG ограничивает изображение границами выбранной ячейки без растягивания и соседних товаров.
+
+Промпт финальной обработки: Preserve the 3 columns by 2 rows layout, dark concrete studio backgrounds, individual product composition, and all six product identities. In the lower middle panel remove all accessories: books, vase, red branches and bowl; leave clean empty shelves. Other panels: oak rectangular desk, burgundy task chair, brass and black desk lamp, dark acoustic wall panel, round oak table. Each panel shows only its own product, no text, watermarks or decorative border. Square panels, 3:2 overall aspect ratio.
